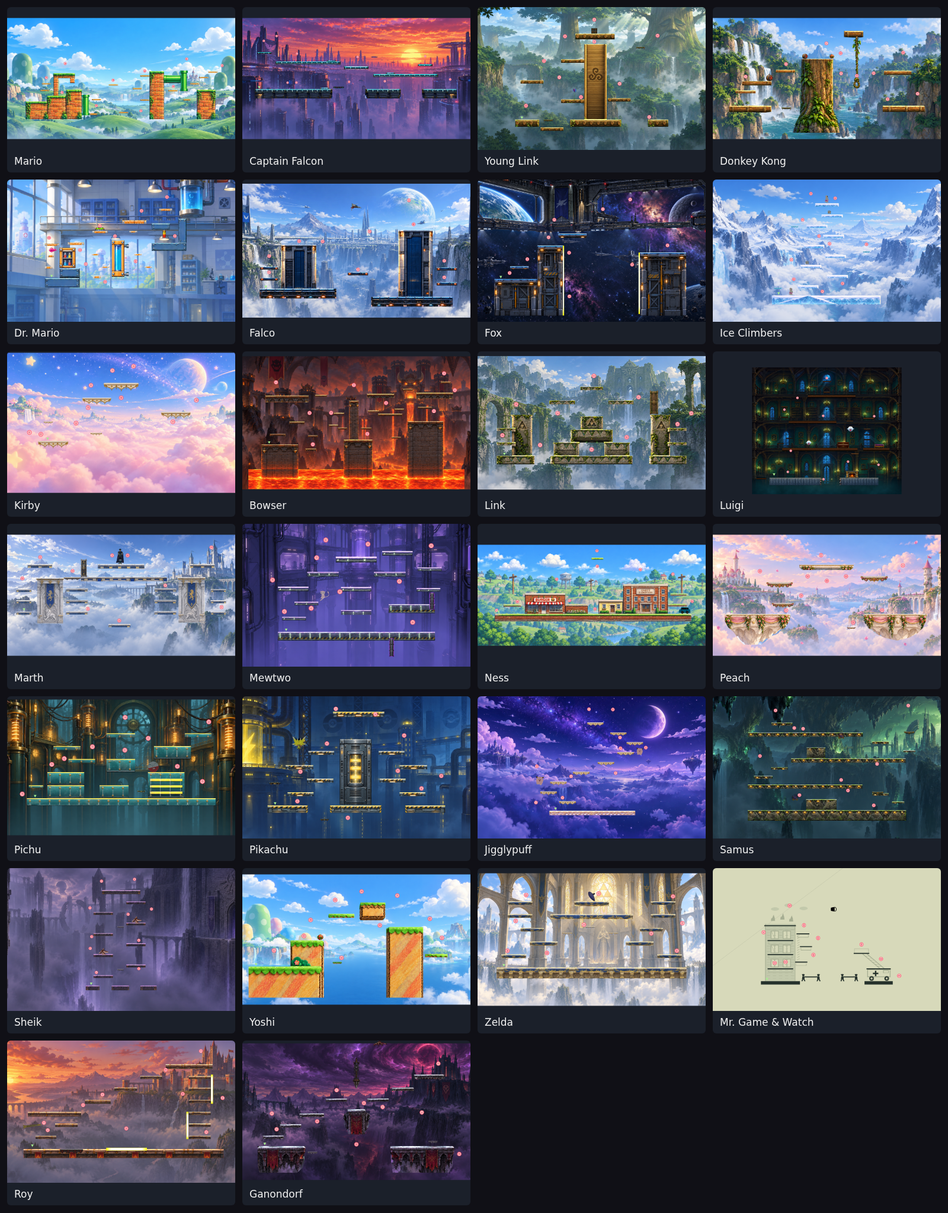
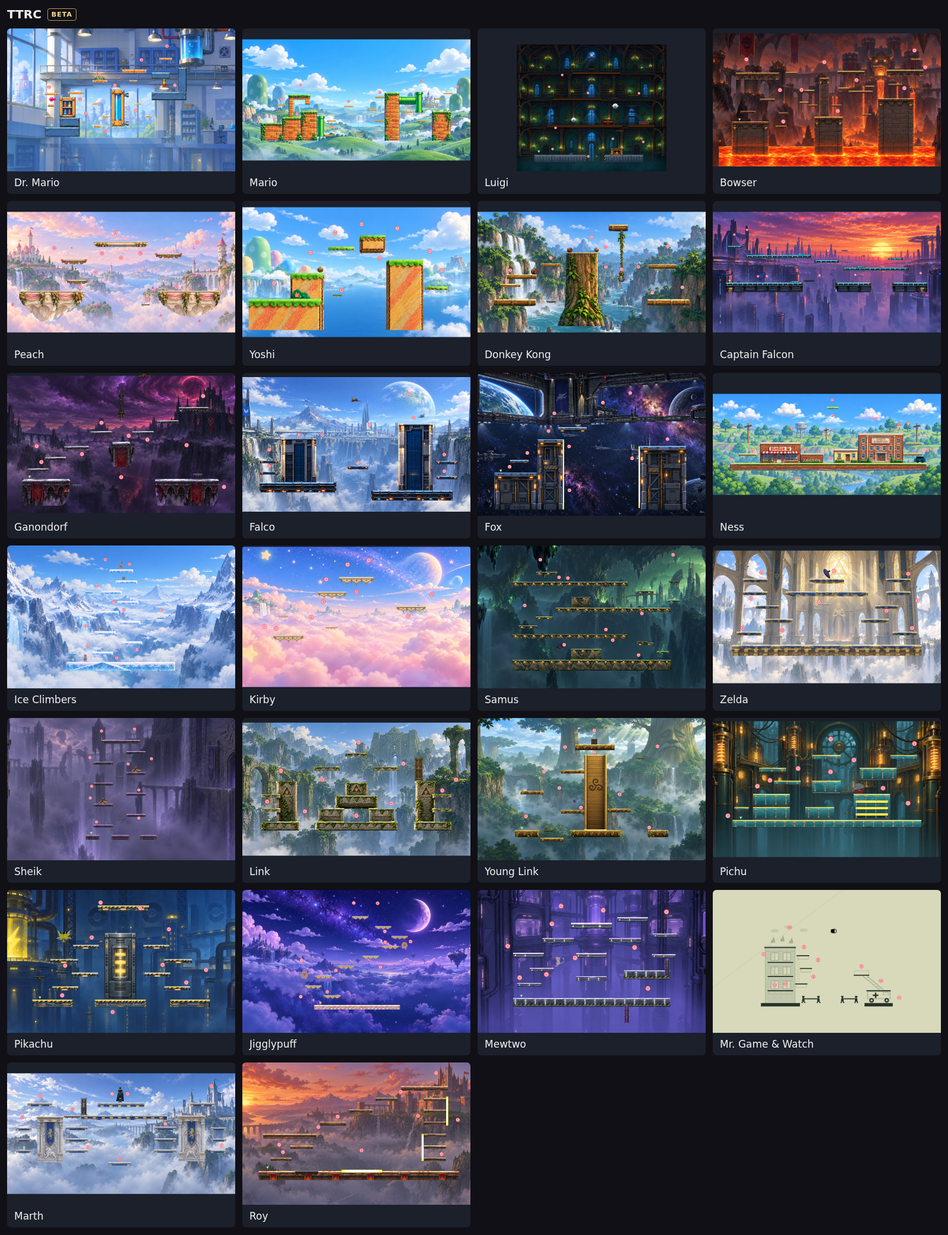
Show Beta across TTRC and order stage previews by the character roster

diff --git a/companion/index.html b/companion/index.html
@@ -1,6 +1,6 @@
-<!doctype html><html lang="en"><head><meta charset="utf-8"><meta name="viewport" content="width=device-width,initial-scale=1"><meta name="theme-color" content="#101016"><title>Target Test — Companion</title><link rel="icon" type="image/svg+xml" href="/favicon-companion.svg"><link rel="stylesheet" href="/style.css"><script type="module" src="/app.js"></script><link rel="stylesheet" href="/loading.css"></head><body>
+<!doctype html><html lang="en"><head><meta charset="utf-8"><meta name="viewport" content="width=device-width,initial-scale=1"><meta name="theme-color" content="#101016"><title>TTRC Companion · Beta</title><link rel="icon" type="image/svg+xml" href="/favicon-companion.svg"><link rel="stylesheet" href="/style.css"><script type="module" src="/app.js"></script><link rel="stylesheet" href="/loading.css"></head><body>
 <header class="top"><a class="brand" href="#main"><span class="logo">◎</span><span>TARGET TEST<small>DESKTOP COMPANION</small></span></a><div class="top-actions"><span id="connection" class="pill">Connecting…</span><a class="secondary" href="/editor" target="_blank" rel="noopener">Level editor ↗</a><button id="website" class="quiet">Open challenge website ↗</button></div></header>
-<main id="main"><div class="heading"><div><h1>TTRC Companion</h1><p class="muted">Automatic record submission enabled.</p></div><div class="identity"><span id="avatar">?</span><div><strong id="player-name">Not signed in</strong><small id="player-code">Username and password</small></div><button id="sign-in" class="quiet">Sign in</button><button id="sign-out" class="quiet" hidden>Sign out</button></div></div>
+<main id="main"><div class="heading"><div><h1>TTRC Companion <span class="beta-badge">Beta</span></h1><p class="muted">Automatic record submission enabled.</p></div><div class="identity"><span id="avatar">?</span><div><strong id="player-name">Not signed in</strong><small id="player-code">Username and password</small></div><button id="sign-in" class="quiet">Sign in</button><button id="sign-out" class="quiet" hidden>Sign out</button></div></div>
 <section id="setup-panel" class="setup-panel" aria-labelledby="setup-title" hidden>
 <div class="setup-heading"><div><p class="eyebrow">FIRST-TIME SETUP · WINDOWS</p><h2 id="setup-title">Set up Melee</h2><p class="muted">Choose your ISO. We’ll prepare Dolphin and replay recording.</p></div><img src="/assets/melee/mario.webp" alt="" width="120" height="120"></div>
 <ol class="setup-steps"><li id="setup-iso-step"><span>1</span><div><strong>Add your Melee ISO</strong><p>Original USA 1.02. Your file stays on this PC.</p></div></li><li id="setup-dolphin-step"><span>2</span><div><strong>Prepare Dolphin</strong><p>Downloads the versions needed to play and watch replays.</p></div></li><li><span>3</span><div><strong>Sign in</strong><p>Sign in with your username and password and confirm the connection code in your browser.</p></div></li></ol>
@@ -24,7 +24,7 @@
 <details id="custom-stages" class="custom-stages" hidden><summary>TTRC stages <span>26 characters</span></summary><p class="muted">Launch Dolphin to play these levels. Choose your character in Target Test; records and replays are in the game’s Leaderboard menu.</p><div id="custom-stage-list"></div></details>
 <div class="workspace"><section class="runs-panel"><div class="section-heading"><div><p class="eyebrow">YOUR BEST · CLICK A CHARACTER FOR ALL ATTEMPTS</p><h2>Your runs</h2></div><span class="pill" id="run-count">0 runs</span></div><div class="attempt-totals" aria-label="Attempt statistics"><div><strong id="total-attempts">0</strong><span>Total attempts</span></div><div><strong id="finished-attempts">0</strong><span>Finished attempts</span></div><p id="active-attempts" class="muted"></p></div><div class="run-tabs"><button id="tab-all" class="active">All runs</button><button id="tab-ready">Not submitted</button><button id="tab-sent">Submitted</button><button id="export" class="export">Export CSV ↓</button></div><div id="run-list"></div><div id="empty" class="empty"><span>↗</span><h3>Your first clear starts here.</h3><p>Sign in, then finish a course from the beginning.<br>Valid personal bests upload automatically with their replays.</p></div></section>
 <aside class="side"><section class="panel"><p class="eyebrow">SUBMISSIONS</p><h3>Automatic uploads</h3><ul class="checklist"><li id="check-player">○ Signed in</li><li>○ Same seed and character</li><li>○ Replay attached automatically</li><li>○ Times stay private until reveal</li></ul><p class="notice" id="recorder-state">Standard Dolphin does not create .slp files. Use the dedicated replay-enabled profile for new attempts.</p><button id="recorder" class="secondary full">Prepare replay-enabled Dolphin</button><button id="replay-folder" class="quiet" hidden>Open replay folder ↗</button><p id="recorder-note" class="muted">Requires a Slippi Dolphin executable, not a Slippi account. Keep your current game open until you are ready to switch.</p></section><section class="panel"><p class="eyebrow">THE REVEAL</p><h3>Play now. Reveal later.</h3><p class="muted">Times stay private until the reveal. Share a score or a replay directly from Your runs. Final records and replays become public at reveal.</p><div class="sync" id="sync">Nothing waiting to upload.</div></section><section class="panel"><p class="eyebrow">ROSTER PROGRESS</p><div class="progress-count" id="progress-count">0 <small>/ 25 cleared</small></div><progress id="progress" value="0" max="25" aria-label="Completed courses"></progress></section></aside></div>
-<section id="app-update" class="app-update" hidden><div><strong id="app-version">TTRC</strong><p id="app-update-message" role="status">Checking for updates…</p><progress id="app-update-progress" max="100" value="0" aria-label="Update download progress" hidden></progress></div><button id="check-app-update" class="quiet">Check for updates</button></section><footer><button id="quit-companion" class="quiet">Quit companion</button><span>LOCAL COMPANION · SEED <b id="seed">—</b></span><a href="/assets/melee/CREDITS.txt">Artwork credits</a><a href="/review">Organizer review desk ↗</a><a href="/api/challenge/code" download>Get Gecko code ↗</a></footer></main>
+<section id="app-update" class="app-update" hidden><div><strong id="app-version">TTRC Beta</strong><p id="app-update-message" role="status">Checking for updates…</p><progress id="app-update-progress" max="100" value="0" aria-label="Update download progress" hidden></progress></div><button id="check-app-update" class="quiet">Check for updates</button></section><footer><button id="quit-companion" class="quiet">Quit companion</button><span>LOCAL COMPANION · SEED <b id="seed">—</b></span><a href="/assets/melee/CREDITS.txt">Artwork credits</a><a href="/review">Organizer review desk ↗</a><a href="/api/challenge/code" download>Get Gecko code ↗</a></footer></main>
 <dialog id="share-dialog"><form method="dialog"><button class="close" aria-label="Close sharing">×</button></form><h2>Share this run</h2><p id="share-summary"></p><p class="muted">Share score publishes only the time. Share replay also lets everyone download and watch the .slp. Final records and replays become public automatically at reveal.</p><div class="share-options"><button id="share-score" class="secondary">Share score</button><button id="share-replay" class="primary">Share replay</button><button id="share-private" class="quiet">Make private</button></div><p id="share-status" role="status"></p></dialog>
 <dialog id="shared-dialog"><form method="dialog"><button class="close" aria-label="Close">×</button></form><h2>Public replay</h2><p id="shared-summary">Loading replay…</p><p class="muted">Opens in Dolphin Playback. The companion must be prepared for this challenge.</p><button id="shared-launch" class="primary" disabled>Launch replay</button><p id="shared-error" role="alert"></p></dialog>
 <div id="toast" role="status" hidden></div></body></html>

diff --git a/web/challenges.html b/web/challenges.html
@@ -4,7 +4,7 @@
   <meta charset="utf-8"><meta name="viewport" content="width=device-width, initial-scale=1">
   <meta name="theme-color" content="#0c1017">
   <meta name="description" content="The current Target Test Randomizer challenge, its courses, and your personal bests.">
-  <title>Target Test Randomizer Challenge</title>
+  <title>Target Test Randomizer Challenge · Beta</title>
   <link rel="icon" type="image/svg+xml" href="/favicon-site.svg"><link rel="stylesheet" href="/style.css">
   <script type="module" src="/app.js"></script>
 <link rel="stylesheet" href="/loading.css"></head>
@@ -24,7 +24,7 @@
     <div class="sidebar-bottom"><div class="edition">MELEE <span>NTSC 1.02</span></div><span class="local-badge"><i></i> Local companion</span></div>
   </aside>
   <div class="workspace">
-    <header class="topbar"><span>Melee <span class="slash">/</span> <strong>Target Test</strong></span><a href="#profil" class="top-profile"><span id="top-avatar" class="avatar mini">?</span><span id="top-name">My profile</span></a></header>
+    <header class="topbar"><span>Melee <span class="slash">/</span> <strong>Target Test</strong> <span class="beta-badge">Beta</span></span><a href="#profil" class="top-profile"><span id="top-avatar" class="avatar mini">?</span><span id="top-name">My profile</span></a></header>
     <main id="main">
       <section class="panel connect-panel" id="connect-panel" hidden><p class="eyebrow">COMPANION CONNECTION</p><h2>Connect this companion</h2><p>Only continue if you clicked Sign in in your own TTRC Companion. Check that both windows show this code:</p><strong id="connect-verification" class="verification-code"></strong><p id="connect-status" role="status">Loading connection…</p><button id="approve-companion" class="button primary" disabled>Connect companion</button></section>
       <section class="panel" id="public-profile" hidden><p class="eyebrow">PLAYER</p><h2 id="public-name"></h2><p id="public-note">Times and rankings remain hidden until the reveal. Shared replays appear below.</p></section>
@@ -77,7 +77,7 @@
     <section><h3>Public replays <span id="character-replay-count" class="small-badge">0</span></h3><p class="section-note">Final records are public after reveal; before then, only disclosed replays appear here. Watch in Dolphin opens your running companion.</p><p id="character-replay-empty">No public replays for this character yet.</p><div id="character-replays"></div></section>
   </dialog>
   <dialog id="disclose-dialog" aria-labelledby="disclose-title"><form method="dialog"><button class="close-dialog" aria-label="Close disclosure settings">×</button></form><h2 id="disclose-title">Disclose score or replay</h2><p id="disclose-summary"></p><p id="disclose-status" role="status"></p><div class="disclosure-choices"><div><button class="button secondary full" id="disclose-score">Disclose score</button><p>Publish the time. Keep the .slp replay private.</p></div><div><button class="button primary full" id="disclose-replay">Disclose replay</button><p>Publish the time and let everyone watch or download the .slp.</p></div></div><button class="text-button" id="disclose-private">Make private</button><p class="section-note">Applies only to this attempt. Final records and their replays become public at reveal. Downloaded copies cannot be recalled.</p><p id="disclose-error" role="alert"></p></dialog>
-  <dialog id="play-guide"><form method="dialog"><button class="close-dialog" aria-label="Close">×</button></form><p class="eyebrow">WINDOWS 10 / 11 · 64-BIT</p><h2>Get TTRC Dolphin</h2><p>Download the ZIP, extract it, and open <strong>TTRC Companion.vbs</strong>. The companion runs independently of Dolphin.</p><a id="download-companion" class="button primary full" href="https://github.com/Poilon/target-test-randomizer-challenge/releases/latest/download/TTRC-Windows-x64.zip">Download for Windows ↓</a><ol class="guide-steps"><li><strong>Set up your session.</strong> Choose music and rumble settings in the companion, then click Launch Dolphin. Click Open and select your original Melee USA 1.02 ISO. It stays in its current folder.</li><li><strong>Keep the companion open.</strong> Your runs and replay history stay here, even after closing Dolphin. Use Quit companion when you are done.</li><li><strong>Sign in from the companion.</strong> Create an account with a username and password, then confirm the connection code. Choose your character in Melee and play.</li></ol><a class="button secondary full" href="http://localhost:4317" target="_blank" rel="noopener">Already running? Open companion ↗</a><p><a href="https://github.com/Poilon/target-test-randomizer-challenge/releases/latest" target="_blank" rel="noopener">Release notes and checksums ↗</a></p><p>GameCube adapters may need their Windows driver installed. The ISO is not included. Replays are saved next to Dolphin. The replay player downloads on first use. New personal bests upload privately with their replays.</p></dialog>
+  <dialog id="play-guide"><form method="dialog"><button class="close-dialog" aria-label="Close">×</button></form><p class="eyebrow">WINDOWS 10 / 11 · 64-BIT</p><h2>Get TTRC Dolphin Beta</h2><p>Download the ZIP, extract it, and open <strong>TTRC Companion.vbs</strong>. The companion runs independently of Dolphin.</p><a id="download-companion" class="button primary full" href="https://github.com/Poilon/target-test-randomizer-challenge/releases/latest/download/TTRC-Windows-x64.zip">Download for Windows ↓</a><ol class="guide-steps"><li><strong>Set up your session.</strong> Choose music and rumble settings in the companion, then click Launch Dolphin. Click Open and select your original Melee USA 1.02 ISO. It stays in its current folder.</li><li><strong>Keep the companion open.</strong> Your runs and replay history stay here, even after closing Dolphin. Use Quit companion when you are done.</li><li><strong>Sign in from the companion.</strong> Create an account with a username and password, then confirm the connection code. Choose your character in Melee and play.</li></ol><a class="button secondary full" href="http://localhost:4317" target="_blank" rel="noopener">Already running? Open companion ↗</a><p><a href="https://github.com/Poilon/target-test-randomizer-challenge/releases/latest" target="_blank" rel="noopener">Release notes and checksums ↗</a></p><p>GameCube adapters may need their Windows driver installed. The ISO is not included. Replays are saved next to Dolphin. The replay player downloads on first use. New personal bests upload privately with their replays.</p></dialog>
   <dialog id="auth-dialog" aria-labelledby="auth-title"><form method="dialog"><button class="close-dialog" aria-label="Close">×</button></form><h2 id="auth-title">Sign in</h2><p id="auth-description">Use your TTRC account.</p><form id="auth-form"><label for="auth-username">Username</label><input id="auth-username" name="username" required autocomplete="username" maxlength="24" placeholder="Your username" autocapitalize="none" spellcheck="false"><p id="username-hint" class="muted" hidden>3–24 letters, numbers or underscores. Usernames are unique and permanent.</p><label for="auth-password">Password</label><input id="auth-password" type="password" name="password" required autocomplete="current-password" maxlength="128"><p id="password-hint" class="muted" hidden>At least 8 characters. Save your password in your password manager.</p><button id="auth-submit" type="submit" class="button primary full">Sign in</button></form><p id="auth-error" role="alert"></p><div class="auth-actions"><button id="auth-switch" class="text-button">Create account</button></div></dialog>
 </body>
 </html>

diff --git a/web/editor/index.html b/web/editor/index.html
@@ -1,5 +1,5 @@
-<!doctype html><html lang="en"><head><meta charset="utf-8"><meta name="viewport" content="width=device-width,initial-scale=1"><title>TTRC Stage Editor</title><link rel="icon" href="/favicon-companion.svg"><link rel="stylesheet" href="/editor/editor.css"><script type="module" src="/editor/editor.js?v=20261005-published-20261003-level-pack"></script></head>
-<body><header><a class="brand" href="/">◎ <span>TTRC <b>STAGE EDITOR</b></span></a><input id="name" aria-label="Project name" maxlength="80" value="Loading stage…"><span id="save-status" role="status">Loading…</span><div class="actions"><button id="undo" title="Undo · Ctrl Z" disabled>↶</button><button id="redo" title="Redo · Ctrl Shift Z" disabled>↷</button><button id="recover" hidden>Export older draft</button><button id="import">Open project</button><button id="export">Export project</button><button id="test" class="primary" disabled>Test in Dolphin ↗</button></div></header>
+<!doctype html><html lang="en"><head><meta charset="utf-8"><meta name="viewport" content="width=device-width,initial-scale=1"><title>TTRC Stage Editor · Beta</title><link rel="icon" href="/favicon-companion.svg"><link rel="stylesheet" href="/editor/editor.css"><script type="module" src="/editor/editor.js?v=20261005-published-20261003-level-pack"></script></head>
+<body><header><a class="brand" href="/">◎ <span>TTRC <b>STAGE EDITOR</b></span><span class="beta-badge">Beta</span></a><input id="name" aria-label="Project name" maxlength="80" value="Loading stage…"><span id="save-status" role="status">Loading…</span><div class="actions"><button id="undo" title="Undo · Ctrl Z" disabled>↶</button><button id="redo" title="Redo · Ctrl Shift Z" disabled>↷</button><button id="recover" hidden>Export older draft</button><button id="import">Open project</button><button id="export">Export project</button><button id="test" class="primary" disabled>Test in Dolphin ↗</button></div></header>
 <main><aside class="library"><label class="caption" for="stage">CHARACTER WORLD</label><select id="stage" aria-label="Character world" disabled></select><p id="stage-note"></p><div class="pack-actions"><button id="export-all">Export all levels</button><button id="build-all" class="primary">Build all in Dolphin ↗</button></div><div class="section-head"><h2>Layers</h2><button id="reset" title="Reset this draft to the original stage">Reset</button></div><div class="layers"><label><input type="checkbox" id="art-layer" checked> Artwork</label><label><input type="checkbox" id="collision-layer" checked> Collisions</label><label><input type="checkbox" id="target-layer" checked> Targets &amp; spawn</label><label><input type="checkbox" id="objects-layer" checked> Objects &amp; paths</label></div><div class="section-head"><h2>Objects</h2><span id="object-count"></span></div><input type="search" id="search" placeholder="Find an object…" aria-label="Find an object"><div class="add-row"><button id="add-solid">+ Solid block</button><button id="add-floor">+ One-way block</button></div><div class="add-row"><button id="add-platform">+ Moving platform</button></div><div class="add-row"><button id="add-bumper">+ Bumper</button></div><div class="add-row"><button id="add-boost-right">+ Boost →</button><button id="add-boost-left">+ Boost ←</button></div><details class="palette" open><summary>Block library</summary><div id="piece-library"></div></details><div id="object-list" role="list" aria-label="Stage objects"></div><details><summary>Original game elements</summary><div id="native-list"></div></details></aside>
 <section class="viewport"><div class="tools"><button id="randomize" title="Randomize target positions; terrain and objects stay in place">Randomize</button><button id="fit">Fit stage</button><button id="zoom-out" aria-label="Zoom out">−</button><output id="zoom">100%</output><button id="zoom-in" aria-label="Zoom in">+</button><label><input id="snap" type="checkbox" checked> Snap</label><select id="grid" aria-label="Grid spacing"><option value="1">1 unit</option><option value="2" selected>2 units</option><option value="5">5 units</option><option value="10">10 units</option></select><span>Drag to move · wheel to zoom · Space + drag to pan</span></div><div id="canvas-wrap"><canvas id="scene" tabindex="0" aria-label="Stage editor canvas. Select objects in the list to edit their coordinates with the inspector."></canvas><div id="route-placement" hidden><span id="route-instructions" role="status"></span><button id="route-done">Done</button></div><div id="loading" role="status"><span class="spinner"></span><p>Loading stage…</p><button id="retry" hidden>Try again</button></div><div class="legend"><span class="solid-key">━ Solid</span><span class="platform-key">┄ One-way</span><span class="target-key">◎ Target</span><span class="native-key">◇ Native actor / authored object</span></div></div><footer class="timeline"><button id="preview">▶ Preview motion</button><input type="range" id="frame" min="0" max="1200" value="0" aria-label="Animation frame"><output id="frame-label">0f · 0.00s</output><span id="coordinates">X — Y —</span></footer></section>
 <aside class="inspector"><p class="caption">INSPECTOR</p><h1 id="selection-title">Select an object</h1><p id="selection-note">Click a target, wall or platform in the canvas.</p><div id="fields"></div><div id="selection-actions"></div><section class="validation"><h2>Before you play <span id="validation-count"></span></h2><div id="validation-list"></div></section><details><summary>Character &amp; route notes</summary><div id="route-notes"></div></details><p class="local-note">Drafts save in this browser. Export a project to back it up or share it. Your Melee ISO stays on your PC.</p><a id="companion-link" href="http://localhost:4317/editor" target="_blank" rel="noopener" hidden>Open editor in companion ↗</a></aside></main>

diff --git a/web/worlds.css b/web/worlds.css
@@ -1,1 +1,4 @@
 :root{color-scheme:dark;font:15px/1.5 "Segoe UI",Arial,sans-serif;color:#edf1f7;background:#0c1017;--muted:#93a0b3;--line:#293344;--gold:#ffcf72}*{box-sizing:border-box}body{margin:0}a{color:inherit;text-decoration:none}button{font:inherit;color:inherit;cursor:pointer}button:disabled{opacity:.4;cursor:default}button:focus-visible,a:focus-visible{outline:2px solid var(--gold);outline-offset:4px}header,main,footer{max-width:1300px;margin:auto;padding:0 40px}header{height:100px;display:flex;align-items:center;justify-content:space-between;border-bottom:1px solid var(--line);gap:25px}.brand{display:flex;gap:13px;align-items:center;font-size:25px;font-weight:800;letter-spacing:2px}.brand small{display:block;font-size:9px;letter-spacing:1.8px;color:var(--muted)}nav{display:flex;gap:30px;font-size:13px}nav [aria-current]{color:var(--gold)}.intro{display:flex;justify-content:space-between;align-items:center;min-height:290px;position:relative;overflow:hidden}.eyebrow{font-size:10px;font-weight:700;letter-spacing:2px;color:var(--gold);margin:0 0 12px}h1{font-size:64px;letter-spacing:-3px;line-height:1;margin:16px 0 25px}h2{font-size:24px;line-height:1.25;margin:0 0 10px;letter-spacing:-.5px}.intro p:not(.eyebrow),.downloads p,.note{color:var(--muted)}.intro-art{object-fit:contain;margin-right:70px;filter:drop-shadow(0 15px 32px #597e9a55)}.records{display:grid;grid-template-columns:255px minmax(0,1fr);border:1px solid var(--line);border-radius:12px;overflow:hidden;background:#131923;scroll-margin-top:20px}.records aside{padding:25px 18px;border-right:1px solid var(--line)}.records aside h2{font-size:15px;margin:0 10px 20px}.characters{display:grid;grid-template-columns:1fr 1fr;gap:5px}.character{display:flex;align-items:center;gap:6px;min-height:46px;padding:6px;background:transparent;border:1px solid transparent;border-radius:5px;text-align:left;font-size:11px}.character img{width:30px;height:30px;object-fit:contain}.character:hover{background:#ffffff08}.character[aria-pressed=true]{border-color:#ffcf7277;background:#ffcf7210;color:var(--gold)}.board{min-width:0;padding:30px}.board-heading{display:flex;gap:20px;justify-content:space-between;align-items:center;min-height:70px}.board button{border:1px solid var(--line);background:#1c2533;border-radius:5px;padding:8px 13px;font-size:12px}.board button:hover:not(:disabled){border-color:var(--gold)}#status{color:var(--muted);font-size:12px;min-height:20px;margin:15px 0}.table-scroll{overflow-x:auto}table{width:100%;border-collapse:collapse;font-variant-numeric:tabular-nums}th{text-align:left;color:var(--muted);font-weight:500;font-size:11px;text-transform:uppercase;letter-spacing:1px;border-bottom:1px solid var(--line);padding:12px 10px}td{padding:14px 10px;border-bottom:1px solid #29334477;font-size:14px}td:first-child{color:var(--muted);width:60px}td:nth-child(3){font-family:Consolas,monospace;font-size:18px;white-space:nowrap}td:last-child{text-align:right}td a{color:var(--gold);font-size:12px;white-space:nowrap}tr:first-child td:first-child{color:var(--gold)}.pagination{display:flex;align-items:center;justify-content:flex-end;gap:16px;margin:24px 0;font-size:11px;color:var(--muted)}.note{font-size:12px;max-width:620px;margin-top:36px}.downloads{display:grid;grid-template-columns:1fr 1.4fr;gap:50px;padding:75px 0}.downloads h2{font-size:32px}.downloads p{font-size:13px}.download-options{display:grid;gap:12px}.download{display:grid;gap:7px;padding:20px 24px;border:1px solid var(--line);border-radius:8px;background:#131923}.download:hover{border-color:var(--gold)}.download strong{font-size:16px;display:flex;justify-content:space-between}.download>span{font-size:12px;color:var(--muted)}footer{border-top:1px solid var(--line);display:flex;gap:25px;padding-top:25px;padding-bottom:35px;color:var(--muted);font-size:11px}footer span{margin-right:auto}.sr-only{position:absolute;width:1px;height:1px;overflow:hidden;clip:rect(0,0,0,0)}.skip{position:absolute;top:-100px}.skip:focus{top:4px;background:#131923;z-index:5;padding:10px}.skeleton td:after{content:"";display:block;height:15px;background:linear-gradient(90deg,#263244,#344258,#263244);background-size:200%;border-radius:3px;animation:loading 1.5s infinite}.skeleton td:nth-child(2):after{max-width:150px}@keyframes loading{to{background-position:-200% 0}}@media(prefers-reduced-motion:reduce){.skeleton td:after{animation:none}}@media(max-width:800px){header,main,footer{padding-left:20px;padding-right:20px}header{height:90px}nav{gap:15px;font-size:12px}.brand{font-size:20px}.brand img{width:28px;height:28px}.brand small{display:none}.intro{min-height:240px}.intro-art{width:135px;height:180px;margin:0}.intro h1{font-size:45px}.intro p:not(.eyebrow){font-size:12px;max-width:300px}.records{grid-template-columns:1fr}.records aside{border-right:0;border-bottom:1px solid var(--line);padding:15px}.characters{display:flex;overflow-x:auto;padding:4px 0 8px;gap:8px}.character{flex:0 0 84px;flex-direction:column;text-align:center}.records aside h2{margin:0 0 10px}.board{padding:20px}.downloads{grid-template-columns:1fr;gap:15px;padding:45px 0}footer{flex-wrap:wrap}footer span{width:100%}.intro .eyebrow{font-size:8px}}@media(max-width:440px){header{flex-wrap:wrap;gap:4px;padding-top:12px;padding-bottom:12px}.intro-art{width:90px}.intro h1{font-size:40px}.board{padding:15px}td{padding:12px 6px}td:nth-child(3){font-size:15px}.eyebrow{letter-spacing:1px}}
+
+/* Shared beta label; visible without relying on color. */
+.beta-badge,.brand .beta-badge{display:inline-flex;align-items:center;flex:none;width:max-content;vertical-align:middle;margin-left:6px;padding:4px 7px;border:1px solid #b99755;border-radius:4px;background:#30291b;color:#ffdb91;font:700 10px/1.2 system-ui,sans-serif;letter-spacing:.08em;text-transform:uppercase;white-space:nowrap}

diff --git a/web/index.html b/web/index.html
@@ -1,7 +1,7 @@
 <!doctype html>
-<html lang="en"><head><meta charset="utf-8"><meta name="viewport" content="width=device-width,initial-scale=1"><meta name="theme-color" content="#0c1017"><meta name="description" content="Melee Target Test worlds, records and replays."><title>TTRC · Leaderboards</title><link rel="icon" href="/favicon-site.svg"><link rel="stylesheet" href="/worlds.css"><script type="module" src="/worlds.js"></script></head>
-<body><a class="skip" href="#records">Skip to records</a><header><a class="brand" href="/"><img src="/target.svg" width="36" height="36" alt=""><span>TTRC<small>MELEE TARGET TEST</small></span></a><nav aria-label="Main"><a href="#records" aria-current="page">Leaderboards</a><a href="#downloads">Downloads</a><a href="/challenges.html">Challenges</a></nav></header>
+<html lang="en"><head><meta charset="utf-8"><meta name="viewport" content="width=device-width,initial-scale=1"><meta name="theme-color" content="#0c1017"><meta name="description" content="TTRC Beta — Melee Target Test worlds, records and replays."><title>TTRC Beta · Leaderboards</title><link rel="icon" href="/favicon-site.svg"><link rel="stylesheet" href="/worlds.css"><script type="module" src="/worlds.js"></script></head>
+<body><a class="skip" href="#records">Skip to records</a><header><a class="brand" href="/"><img src="/target.svg" width="36" height="36" alt=""><span>TTRC <span class="beta-badge">Beta</span><small>MELEE TARGET TEST</small></span></a><nav aria-label="Main"><a href="#records" aria-current="page">Leaderboards</a><a href="#downloads">Downloads</a><a href="/challenges.html">Challenges</a></nav></header>
 <main><section class="intro"><div><p class="eyebrow">26 CHARACTERS · 26 WORLDS</p><h1>Target Test</h1><p>Records from the game. Pick a character to see the times and download a replay.</p></div><img class="intro-art" src="/assets/melee/fox.webp" alt="Fox" width="220" height="220"></section>
 <section id="records" class="records" aria-labelledby="records-title"><aside><h2 id="records-title">Leaderboards</h2><div id="characters" class="characters" aria-label="Choose a character"></div></aside><div class="board"><div class="board-heading"><div><p class="eyebrow" id="character-name">LOADING LEVELS</p><h2 id="level-name">Connecting…</h2></div><button id="refresh" type="button" disabled>Refresh</button></div><p id="status" role="status">Loading leaderboards…</p><div class="table-scroll"><table><thead><tr><th scope="col">Rank</th><th scope="col">Player</th><th scope="col">Time</th><th scope="col"><span id="detail-heading">Replay</span></th></tr></thead><tbody id="rows"></tbody></table></div><div class="pagination"><button id="previous" disabled>Previous</button><span id="page-count"></span><button id="next" disabled>Next</button></div><p class="note">Play a level while signed in to TTRC Dolphin to submit a record. Select a record in the game's Leaderboard menu to watch its replay.</p></div></section>
-<section id="downloads" class="downloads"><div><p class="eyebrow">WINDOWS · MELEE USA 1.02</p><h2>Downloads</h2><p>Use your own Melee ISO. The game is not included.</p></div><div class="download-options"><a class="download" href="https://github.com/Poilon/target-test-randomizer-challenge/releases/latest"><strong>TTRC Dolphin <span>↗</span></strong><span>Latest published build, release notes and checksums</span></a><a class="download" href="/editor"><strong>Level editor <span>↗</span></strong><span>Edit targets, platforms and objects. Export all your levels.</span></a></div></section>
-</main><footer><span>TTRC · Target Test Randomizer Challenge</span><a href="/assets/melee/CREDITS.txt">Artwork credits</a><a href="/review">Admin</a></footer></body></html>
+<section id="downloads" class="downloads"><div><p class="eyebrow">WINDOWS · MELEE USA 1.02</p><h2>Downloads</h2><p>Use your own Melee ISO. The game is not included.</p></div><div class="download-options"><a class="download" href="https://github.com/Poilon/target-test-randomizer-challenge/releases/latest"><strong>TTRC Dolphin Beta <span>↗</span></strong><span>Latest beta build, release notes and checksums</span></a><a class="download" href="/editor"><strong>Level editor Beta <span>↗</span></strong><span>Edit targets, platforms and objects. Export all your levels.</span></a></div></section>
+</main><footer><span>TTRC Beta · Target Test Randomizer Challenge</span><a href="/assets/melee/CREDITS.txt">Artwork credits</a><a href="/review">Admin</a></footer></body></html>

diff --git a/web/review.css b/web/review.css
@@ -2,3 +2,6 @@
 main{max-width:1100px}h2{font-size:19px}h3{font-size:15px;margin:0}header{border-bottom:1px solid #35415a;margin-bottom:28px}header p{color:#eac57e}.challenge-panel,#access{padding:26px;background:#1a2230;border:1px solid #35415a;border-radius:12px}.controls{padding:0;border-radius:0}.controls strong{color:#f0ce8b}#deadline-summary{font-size:14px;margin:24px 0}#schedule label,.filters label{display:grid;gap:8px;font-size:12px;color:#a9b5c7}.schedule-inputs{display:flex;gap:10px;flex-wrap:wrap;margin-top:10px}.reveal-row{display:flex;align-items:center;gap:24px;justify-content:space-between;border-top:1px solid #35415a;margin-top:24px;padding-top:10px}.reveal-row>div{max-width:560px}.stats{display:grid;grid-template-columns:repeat(3,1fr);gap:16px;margin:24px 0 32px}.stats>div{padding:20px;background:#1a2230;border:1px solid #35415a;border-radius:10px}.stats strong{display:block;font:28px Consolas,monospace;color:#f0ce8b}.stats span{display:block;font-size:12px;color:#a9b5c7;margin-top:8px}.queue-heading,.submission-heading{display:flex;justify-content:space-between;align-items:center;gap:16px}.queue-heading span{font-size:12px;color:#a9b5c7}.filters{display:grid;grid-template-columns:2fr 1fr 1fr;gap:14px}.filters input,.filters select{width:100%;min-width:0}select{font:inherit;color:#e9eef8;background:#263249;border:1px solid #40506a;border-radius:6px;padding:10px}.submission{padding:20px}.submission time{font-size:23px;white-space:nowrap}.submission textarea{min-height:54px}.buttons{align-items:center}.evidence-details{font-size:12px;color:#a9b5c7;margin:15px 0}summary{cursor:pointer}#access p{color:#a9b5c7;line-height:1.7}#access details{margin-top:24px;font-size:12px}#login{margin-top:15px;flex-wrap:wrap}#confirm-error{color:#ffc1bb}dialog form{text-align:right}dialog form button{padding:3px 9px}#close{flex-shrink:0}input,select{color-scheme:dark}@media(max-width:650px){main{padding:25px 16px}.challenge-panel,#access{padding:20px}.reveal-row{display:block}.stats{gap:8px}.stats>div{padding:14px 10px}.filters{grid-template-columns:1fr}.submission-heading{align-items:flex-start;flex-direction:column}.schedule-inputs{flex-direction:column}.schedule-inputs>*{width:100%;min-width:0}h1{font-size:27px}#login input{width:100%;min-width:0}}
 
 .new-challenge{margin-top:24px}#generate{display:flex;align-items:center;gap:12px;flex-wrap:wrap;font-size:12px}#new-seed{max-width:100%}#generate-note{font-size:12px;color:#a9b5c7}#generate-error{color:#ffc1bb}
+
+/* Shared beta label; visible without relying on color. */
+.beta-badge,.brand .beta-badge{display:inline-flex;align-items:center;flex:none;width:max-content;vertical-align:middle;margin-left:6px;padding:4px 7px;border:1px solid #b99755;border-radius:4px;background:#30291b;color:#ffdb91;font:700 10px/1.2 system-ui,sans-serif;letter-spacing:.08em;text-transform:uppercase;white-space:nowrap}

diff --git a/web/login.css b/web/login.css
@@ -1,1 +1,4 @@
 :root{color-scheme:dark;font:16px/1.5 "Segoe UI",Arial,sans-serif;color:#edf1f7;background:#0c1017}*{box-sizing:border-box}[hidden]{display:none!important}body{margin:0}a{color:inherit;text-decoration:none}header{max-width:1120px;margin:auto;padding:28px;display:flex;align-items:center;justify-content:space-between;font-size:13px;color:#a9b5c6}.brand{display:flex;align-items:center;gap:12px;font-size:24px;font-weight:800;letter-spacing:2px;color:#fff}main{min-height:75vh;display:grid;place-items:center;padding:30px 22px}.card{width:min(850px,100%);display:grid;grid-template-columns:.8fr 1fr;border:1px solid #293344;background:#131b28;border-radius:16px;overflow:hidden;box-shadow:0 24px 90px #0005}.art{display:flex;align-items:flex-end;justify-content:center;background:radial-gradient(ellipse at center,#345474,#172534 65%);overflow:hidden;padding:35px 10px 0}.art img{width:100%;max-height:500px;object-fit:contain;filter:drop-shadow(0 20px 20px #0008)}.content{padding:48px 42px;min-height:490px}.eyebrow{font-size:11px;letter-spacing:2px;color:#ffcf72;font-weight:700}h1{font-size:32px;letter-spacing:-1px;margin:12px 0}#description,#status,#complete p{color:#aab6c8;font-size:14px}#status:empty,#error:empty{display:none}#error{color:#ffadad;font-size:14px}label{display:block;font-size:13px;margin:20px 0 7px}input{width:100%;padding:12px 13px;border:1px solid #3d4a60;background:#0c131f;border-radius:6px;color:#fff;font:inherit}button{font:inherit;cursor:pointer;border-radius:6px;width:100%;padding:12px 14px;border:0}.primary{background:#ffcf72;color:#181614;font-weight:700;margin-top:25px}.secondary{background:transparent;color:#b4c1d5;font-size:13px;margin-top:8px}button:disabled{opacity:.5;cursor:wait}button[aria-busy=true]::after{content:"";display:inline-block;width:12px;height:12px;margin-left:10px;border:2px solid currentColor;border-right-color:transparent;border-radius:50%;animation:spin .8s linear infinite}input:focus-visible,button:focus-visible,a:focus-visible{outline:2px solid #ffcf72;outline-offset:3px}.check{display:block;color:#92dbb1;font-size:48px;margin-top:30px}#complete a{font-size:13px;color:#ffcf72}@keyframes spin{to{transform:rotate(360deg)}}@media(prefers-reduced-motion:reduce){button[aria-busy=true]::after{animation:none}}@media(max-width:650px){.card{grid-template-columns:1fr}.art{display:none}.content{padding:30px 24px}header{padding:20px}main{padding-top:10px}}
+
+/* Shared beta label; visible without relying on color. */
+.beta-badge,.brand .beta-badge{display:inline-flex;align-items:center;flex:none;width:max-content;vertical-align:middle;margin-left:6px;padding:4px 7px;border:1px solid #b99755;border-radius:4px;background:#30291b;color:#ffdb91;font:700 10px/1.2 system-ui,sans-serif;letter-spacing:.08em;text-transform:uppercase;white-space:nowrap}

diff --git a/web/style.css b/web/style.css
@@ -45,3 +45,6 @@ main{max-width:1530px;margin:auto;padding:34px 46px 0}.page-heading{display:flex
 .archive-heading{display:flex;align-items:center;justify-content:space-between;gap:20px;margin-bottom:26px}.archive-heading h1{margin:0 0 10px;font-size:32px}.archive-heading p,.archive-state p{color:var(--muted)}.archive-state{padding:28px}.archive-state button{margin-top:18px}#old-challenges-list{display:grid;gap:20px;padding-bottom:40px}.archive-card{padding:24px;min-width:0}.archive-facts{display:grid;grid-template-columns:repeat(3,minmax(0,1fr));gap:20px;margin:22px 0}.archive-facts dt{color:var(--muted);font-size:11px;margin-bottom:5px}.archive-facts dd{margin:0;font-size:14px;font-variant-numeric:tabular-nums}.archive-details{border-top:1px solid var(--line);padding-top:16px}.archive-details summary{cursor:pointer;color:var(--gold);font-weight:600;padding:5px 0}.archive-content{display:grid;gap:16px;margin-top:18px;min-width:0}.archive-content>.panel-heading{margin-top:10px}.archive-content .standings-tabs{flex-wrap:wrap}.archive-code{width:100%;height:190px;resize:vertical;padding:14px;border:1px solid var(--line);border-radius:6px;background:var(--bg);color:var(--text);font:12px/1.6 Consolas,monospace;white-space:pre;overflow:auto}.archive-card th,.archive-card td{padding:12px}.archive-card td{font-variant-numeric:tabular-nums}.archive-card .mine{background:#ffcf7209}.archive-content .section-note{margin:0}@media(max-width:600px){.archive-heading{align-items:flex-start}.archive-heading h1{font-size:25px}.archive-card{padding:16px}.archive-facts{grid-template-columns:repeat(2,minmax(0,1fr));gap:18px 12px}.archive-facts dd{font-size:12px}.archive-content>.panel-heading{align-items:flex-start;flex-wrap:wrap}.archive-card th,.archive-card td{padding:10px 7px}.archive-card .table-wrap{max-width:100%}}
 @media(max-width:500px){.sidebar{flex-wrap:wrap;gap:12px}.sidebar nav{width:100%;justify-content:space-between}.sidebar nav a{min-width:44px;min-height:44px;justify-content:center;gap:0}}
 .disclosure-choices{display:grid;gap:18px;margin:22px 0}.disclosure-choices p{font-size:12px;color:var(--muted);margin:8px 0 0}#disclose-status{color:var(--gold)}#disclose-dialog>.section-note{font-size:11px;margin-top:20px}
+
+/* Shared beta label; visible without relying on color. */
+.beta-badge,.brand .beta-badge{display:inline-flex;align-items:center;flex:none;width:max-content;vertical-align:middle;margin-left:6px;padding:4px 7px;border:1px solid #b99755;border-radius:4px;background:#30291b;color:#ffdb91;font:700 10px/1.2 system-ui,sans-serif;letter-spacing:.08em;text-transform:uppercase;white-space:nowrap}

diff --git a/web/login.html b/web/login.html
@@ -1,9 +1,9 @@
 <!doctype html>
 <html lang="en">
-<head><meta charset="utf-8"><meta name="viewport" content="width=device-width,initial-scale=1"><meta name="referrer" content="no-referrer"><title>Sign in · TTRC</title><link rel="icon" href="/favicon-site.svg" type="image/svg+xml"><link rel="stylesheet" href="/login.css"><script type="module" src="/login.js"></script></head>
-<body><header><a class="brand" href="/"><img src="/target.svg" width="32" height="32" alt="">TTRC</a><a href="/">Leaderboard ↗</a></header>
+<head><meta charset="utf-8"><meta name="viewport" content="width=device-width,initial-scale=1"><meta name="referrer" content="no-referrer"><title>Sign in · TTRC Beta</title><link rel="icon" href="/favicon-site.svg" type="image/svg+xml"><link rel="stylesheet" href="/login.css"><script type="module" src="/login.js"></script></head>
+<body><header><a class="brand" href="/"><img src="/target.svg" width="32" height="32" alt="">TTRC <span class="beta-badge">Beta</span></a><a href="/">Leaderboard ↗</a></header>
 <main><section class="card" aria-labelledby="title"><div class="art" aria-hidden="true"><img src="/assets/melee/fox.webp" alt=""></div><div class="content" id="content">
-<p class="eyebrow">TTRC DOLPHIN</p><h1 id="title">Sign in</h1><p id="description">Sign in here to connect your game.</p>
+<p class="eyebrow">TTRC DOLPHIN · BETA</p><h1 id="title">Sign in</h1><p id="description">Sign in here to connect your game.</p>
 <p id="status" role="status">Loading…</p><p id="error" role="alert"></p>
 <div id="account" hidden><button id="continue" class="primary">Continue</button><button id="switch-account" class="secondary">Use another account</button></div>
 <form id="form" hidden><label for="username">Username</label><input id="username" name="username" autocomplete="username" autocapitalize="none" spellcheck="false" maxlength="24" required><label for="password">Password</label><input id="password" name="password" type="password" autocomplete="current-password" maxlength="128" required><button id="submit" class="primary" type="submit">Sign in and connect</button><button id="mode" class="secondary" type="button">Create an account</button></form>

diff --git a/web/review.html b/web/review.html
@@ -2,11 +2,11 @@
 <html lang="en">
 <head>
   <meta charset="utf-8"><meta name="viewport" content="width=device-width,initial-scale=1">
-  <title>TTRC — Admin</title><link rel="icon" type="image/svg+xml" href="/favicon-admin.svg">
+  <title>TTRC Admin · Beta</title><link rel="icon" type="image/svg+xml" href="/favicon-admin.svg">
   <link rel="stylesheet" href="/review.css"><script type="module" src="/review.js"></script>
 <link rel="stylesheet" href="/loading.css"></head>
 <body><main>
-  <header><div><p>TTRC / ADMIN</p><h1>Challenge management</h1></div><a href="/">← Back to challenge</a></header>
+  <header><div><p>TTRC / ADMIN <span class="beta-badge">Beta</span></p><h1>Challenge management</h1></div><a href="/">← Back to challenge</a></header>
   <section id="access" hidden><h2>Admin access</h2><p>Sign in with your TTRC admin account on the website, then return here.</p><a href="/#profil">Sign in →</a>
     <details><summary>Legacy reviewer access</summary><form id="login"><label for="key">Reviewer key</label><input id="key" type="password" autocomplete="off" required><button>Sign in</button></form></details>
   </section>

diff --git a/companion/app.js b/companion/app.js
@@ -7,7 +7,7 @@ let companionClosed=false,loadedVersion,updateLoading;
 function renderUpdate(update){
  $('app-update').hidden=!update?.supported;if(!update?.supported)return;
  if(loadedVersion&&update.currentVersion!==loadedVersion){location.reload();return;}loadedVersion=update.currentVersion;
- text('app-version',`TTRC ${update.currentVersion}`);
+ text('app-version',`TTRC Beta v${update.currentVersion}`);
  const messages={idle:'Automatic updates on.',checking:'Checking for updates…',current:'Up to date · automatic updates on.',downloading:`Downloading ${update.version} · ${update.progress}%`,verifying:'Verifying update…',ready:`${update.version} is ready. It will install automatically when Dolphin is closed.`,installing:'Installing update… The companion will reconnect automatically.',error:update.error||'Could not check for updates. You can keep playing.'};
  text('app-update-message',messages[update.phase]||'Automatic updates on.');
  $('app-update-progress').hidden=update.phase!=='downloading';$('app-update-progress').value=update.progress||0;

diff --git a/web/editor/editor.css b/web/editor/editor.css
@@ -7,3 +7,6 @@
 .route-actions{display:flex;flex-wrap:wrap;gap:6px;margin:12px 0}.route-actions button{font-size:11px}#route-placement{position:absolute;top:12px;left:12px;right:12px;display:flex;align-items:center;justify-content:space-between;gap:12px;background:#17211cf2;border:1px solid var(--accent);border-radius:6px;padding:9px 12px;box-shadow:0 3px 14px #0005;font-size:12px}#route-placement[hidden]{display:none}#scene.placing-stops{cursor:crosshair}#scene.over-stop{cursor:grab}
 
 .pack-actions{display:grid;gap:6px;margin:14px 0}.pack-actions button{white-space:normal;text-align:left}
+
+/* Shared beta label; visible without relying on color. */
+.beta-badge,.brand .beta-badge{display:inline-flex;align-items:center;flex:none;width:max-content;vertical-align:middle;margin-left:6px;padding:4px 7px;border:1px solid #b99755;border-radius:4px;background:#30291b;color:#ffdb91;font:700 10px/1.2 system-ui,sans-serif;letter-spacing:.08em;text-transform:uppercase;white-space:nowrap}
